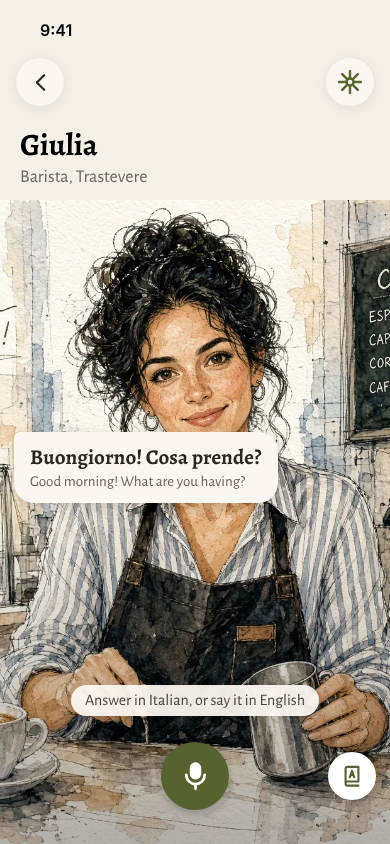
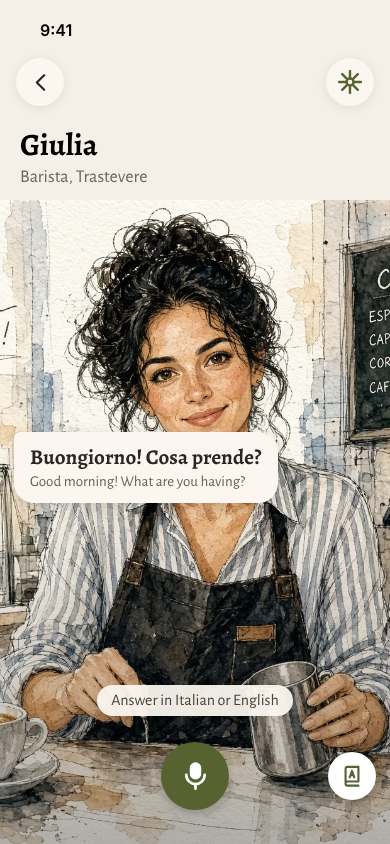
Say it in English mock-ups: the one-tap hands-free turn (Josh)
Josh: "Buttons should update to hands free turn." / "No tap". G1 says
"Answer in Italian or English"; G2 and G3 show the mic reopened by itself
for the reading, with the hands-free ring and "Listening: read it in
Italian". G3 matches G2 (Italian only) so the two compare fairly.

Claude-Session: https://claude.ai/code/session_01HuSMtjsR1f1fbNVszYXEaS

Changed region(s): [[0.5538, 0.8009, 0.8308, 0.8626], [0.1846, 0.8009, 0.5231, 0.8626]]

diff --git a/docs/beginner-scaffolding.md b/docs/beginner-scaffolding.md
@@ -16,7 +16,7 @@ Rewritten 2026-10-22 (Josh: "rewrite docs") into one current picture. Three plan
 Josh: "inside the game we can simplify all the scaffolding to just be say it, get this language back, read it." Onboarding is separate and keeps its buttons ("treat onboarding different in every way").
 - **The direction:** in conversations, scaffolding is only "say it in English" (below): say what you mean in English, get one line back in the language at your level, read it out loud. The two answer bubbles, the stages and the read-aloud panel built 2026-10-22 ([reply-panel.md](reply-panel.md)) would go. The panel stays until the new loop has been played.
 - **The mechanic (Josh):** speak English into the mic → a line in the language comes back to read aloud. **Where it shows is open:** a bubble in the conversation, or a sheet (Josh: "or we could redesign to use sheet"). Claude's view: the sheet, i.e. the reply panel built 2026-10-22 with one line instead of two. The instruction sits by the mic, a "hear it" control fits there, and a sheet reads as "to say" while bubbles read as "said".
-  **Josh prefers the bubble (G2), 2026-10-23,** with only the Italian coming back: no English under it and no "You said" bubble (Josh: "with read it in Italian translation bubble, don't need the extra bubble"), and "Tap, then read it in Italian" above the mic. His concern: how often the English is transcribed wrong. Plan: measure it (below) before building.
+  **Josh prefers the bubble (G2), 2026-10-23,** with only the Italian coming back: no English under it and no "You said" bubble (Josh: "with read it in Italian translation bubble, don't need the extra bubble"), and, with the one-tap turn, the mic already reopened for the reading (the hands-free ring) under "Listening: read it in Italian". No "tap" in the instructions (Josh). His concern: how often the English is transcribed wrong. Plan: measure it (below) before building.
   Mock-ups: canvas "Reply buttons", row G ([G1](../design/say-it-in-english/G1.png) your turn, [G2](../design/say-it-in-english/G2.png) bubble, [G3](../design/say-it-in-english/G3.png) sheet).
 - **One tap per turn (Josh, an idea):** "mic for English, mic for reading might feel awkward." Tap the mic once to start; the turn then runs by itself (your English ends on silence, the line comes back, the mic reopens for the reading, the reading ends on silence and is sent) and stops when she replies; tap again for the next turn. A hands-free that lives inside one turn, and maybe the default for everyone. Care: the reading's mic must wait for speech to start (a learner may take a while to read the line) and stay closed while "hear it" plays; interruptions still leave you on your turn with the mic closed.
 - **The character closes the conversation (Josh, an idea):** "always give character final turn to decide done." She always has the last turn, and she decides when the exchange is naturally over (the coffee's paid for, the ticket's bought) and says goodbye in role. That gives the game the end it lacks today (a conversation ends only when the learner leaves, `markConversationEnded`), so the end-of-conversation offers, Learn and the memory pass get a real moment. Needs: a `done` signal next to `{ line, en }` from the character call (CLAUDE.md keeps the reply to `{ line, en }`, so Josh's call), a prompt trial so she doesn't close too early or never, and the learner can leave first.
